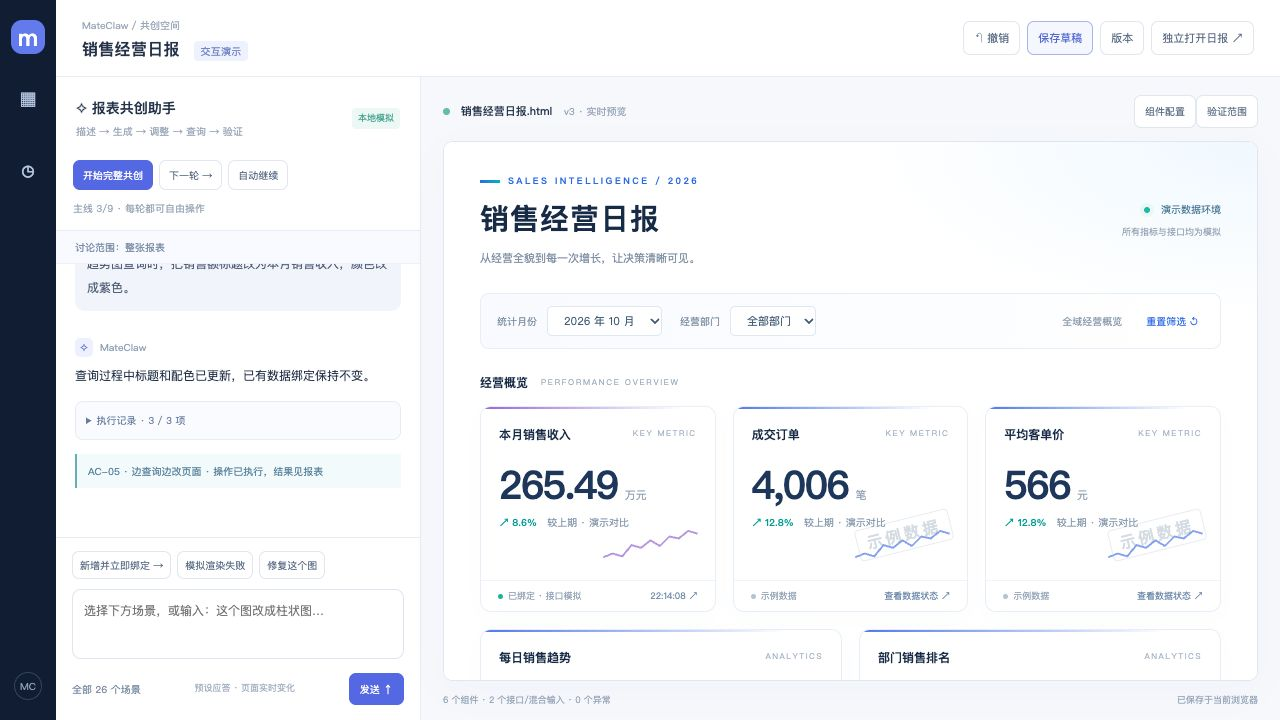
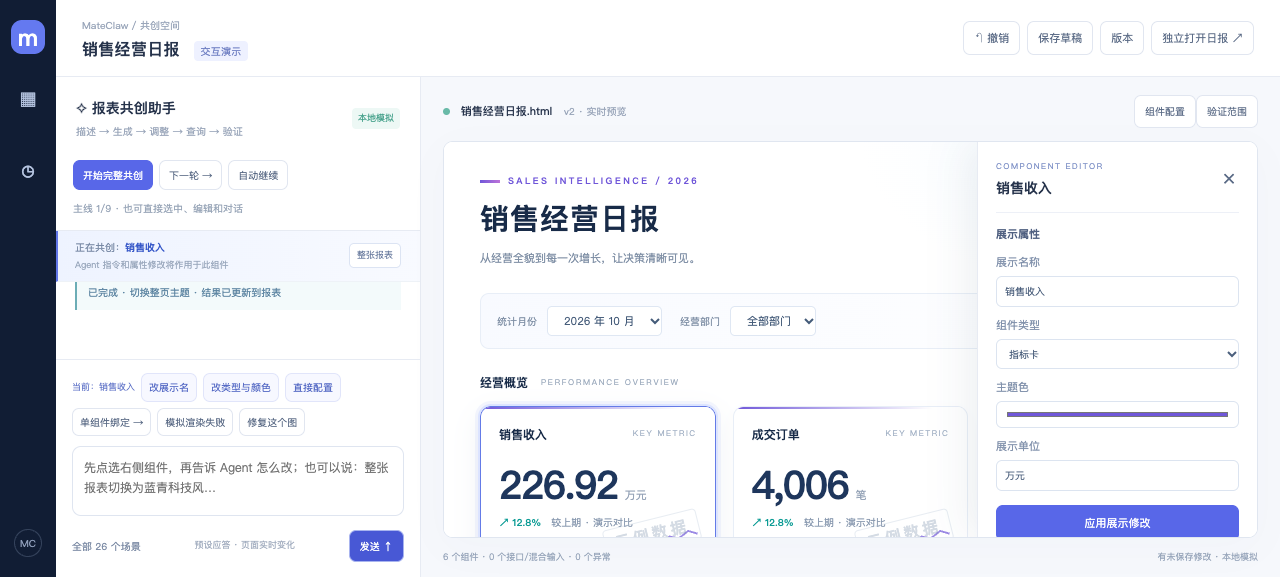
完善报表组件共创交互演示

diff --git a/docs/AI 共创工作台/designs/AI报表共创工作台/report.js b/docs/AI 共创工作台/designs/AI报表共创工作台/report.js
@@ -12,16 +12,16 @@ function params(c){return c.params||{month:state.month,dept:state.dept};}
 function rows(c,p=params(c)){const month=p.month||'2026-10',dept=p.dept||'全部部门',m=Number(month.slice(-2))||10;let result=[];for(let day=1;day<=22;day++)for(let d=0;d<4;d++){const sales=c.zero?0:Math.round((9900+day*173+((day*7+d*19)%23)*620+d*2700)*(c.mode==='sample'?1:1.17)*(.8+m/30));const orders=c.zero?0:23+(day*11+d*7)%46;result.push({date:`${month}-${String(day).padStart(2,'0')}`,dept:departments[d],sales,orders,average:orders?Math.round(sales/orders):0});}return result.filter(r=>dept==='全部部门'||r.dept===dept);}
 function sum(data,metric='sales'){if(metric==='average'){const n=sum(data,'orders');return n?sum(data,'sales')/n:0;}return data.reduce((n,r)=>n+Number(r[metric]||0),0);}
 function format(v,metric='sales'){return metric==='sales'?(v/10000).toFixed(2):Math.round(v).toLocaleString('zh-CN');}
-function unit(c){return c.metric==='orders'?'笔':c.metric==='average'?'元':'万元';}
+function unit(c){return c.unit||(c.metric==='orders'?'笔':c.metric==='average'?'元':'万元');}
 function grouped(data,key,c){const result=new Map();data.forEach(r=>{const k=r[key];if(!result.has(k))result.set(k,[]);result.get(k).push(r);});return [...result].map(([label,list])=>({label,value:sum(list,c.metric)}));}
-function line(c,data){const values=grouped(data,'date',c),max=Math.max(...values.map(v=>v.value),1)*1.18;const points=values.map((v,i)=>[40+i*420/Math.max(values.length-1,1),177-v.value/max*140]);const color=safeColor(c.color||state.accent);return `<svg class="plot" viewBox="0 0 480 215" role="img" aria-label="${escape(c.title)}趋势图"><defs><linearGradient id="area-${escape(c.id)}" x1="0" y1="0" x2="0" y2="1"><stop stop-color="${color}" stop-opacity=".18"/><stop offset="1" stop-color="${color}" stop-opacity="0"/></linearGradient></defs>${[0,1,2,3].map(i=>`<line x1="40" x2="460" y1="${37+i*46.66}" y2="${37+i*46.66}" stroke="#eaf0f8" stroke-dasharray="3 4"/><text x="32" y="${40+i*46.66}" text-anchor="end">${format(max*(3-i)/3,c.metric)}</text>`).join('')}<polygon points="40,177 ${points.map(p=>p.join(',')).join(' ')} 460,177" fill="url(#area-${escape(c.id)})"/><polyline class="line" points="${points.map(p=>p.join(',')).join(' ')}" stroke="${color}" stroke-width="2.5" stroke-linejoin="round" fill="none"/>${points.map((p,i)=>`<circle class="point" cx="${p[0]}" cy="${p[1]}" r="2.8" fill="white" stroke="${color}" stroke-width="1.5"><title>${escape(values[i].label)}：${format(values[i].value,c.metric)} ${unit(c)}</title></circle>${i%5===0||i===points.length-1?`<text x="${p[0]}" y="201" text-anchor="middle">${escape(values[i].label.slice(5))}</text>`:''}`).join('')}</svg>`;}
+function line(c,data){const values=grouped(data,c.dimension==='dept'?'dept':'date',c),max=Math.max(...values.map(v=>v.value),1)*1.18;const points=values.map((v,i)=>[40+i*420/Math.max(values.length-1,1),177-v.value/max*140]);const color=safeColor(c.color||state.accent);return `<svg class="plot" viewBox="0 0 480 215" role="img" aria-label="${escape(c.title)}趋势图"><defs><linearGradient id="area-${escape(c.id)}" x1="0" y1="0" x2="0" y2="1"><stop stop-color="${color}" stop-opacity=".18"/><stop offset="1" stop-color="${color}" stop-opacity="0"/></linearGradient></defs>${[0,1,2,3].map(i=>`<line x1="40" x2="460" y1="${37+i*46.66}" y2="${37+i*46.66}" stroke="#eaf0f8" stroke-dasharray="3 4"/><text x="32" y="${40+i*46.66}" text-anchor="end">${format(max*(3-i)/3,c.metric)}</text>`).join('')}<polygon points="40,177 ${points.map(p=>p.join(',')).join(' ')} 460,177" fill="url(#area-${escape(c.id)})"/><polyline class="line" points="${points.map(p=>p.join(',')).join(' ')}" stroke="${color}" stroke-width="2.5" stroke-linejoin="round" fill="none"/>${points.map((p,i)=>`<circle class="point" cx="${p[0]}" cy="${p[1]}" r="2.8" fill="white" stroke="${color}" stroke-width="1.5"><title>${escape(values[i].label)}：${format(values[i].value,c.metric)} ${unit(c)}</title></circle>${i%5===0||i===points.length-1?`<text x="${p[0]}" y="201" text-anchor="middle">${escape(values[i].label.slice(5))}</text>`:''}`).join('')}</svg>`;}
 function table(c,data){const t=tables.get(c.id)||{page:1,search:'',sort:'date',direction:1};tables.set(c.id,t);let list=data.filter(r=>Object.values(r).join(' ').includes(t.search));list.sort((a,b)=>typeof a[t.sort]==='number'?(a[t.sort]-b[t.sort])*t.direction:String(a[t.sort]).localeCompare(String(b[t.sort]))*t.direction);const pages=Math.max(1,Math.ceil(list.length/5));t.page=Math.min(pages,t.page);return `<div class="table-tools"><input aria-label="搜索经营明细" data-search="${escape(c.id)}" placeholder="搜索日期、部门或数值…" value="${escape(t.search)}"><span class="hint">${list.length} 条记录 · 模拟明细</span></div><div class="table-wrap"><table><thead><tr>${[['date','日期'],['dept','经营部门'],['sales','销售收入（元）'],['orders','订单数'],['average','客单价（元）']].map(([key,title])=>`<th><button data-sort="${key}" data-id="${escape(c.id)}">${title} ${t.sort===key?(t.direction===1?'↑':'↓'):'↕'}</button></th>`).join('')}</tr></thead><tbody>${list.slice((t.page-1)*5,t.page*5).map(r=>`<tr><td>${r.date}</td><td>${r.dept}</td><td>¥ ${r.sales.toLocaleString()}</td><td>${r.orders}</td><td>¥ ${r.average.toLocaleString()}</td></tr>`).join('')||'<tr><td colspan="5">没有匹配的明细</td></tr>'}</tbody></table></div><div class="pagination"><span>当前筛选结果 ${list.length} 条</span><div class="pager"><button data-page="-1" data-id="${escape(c.id)}" ${t.page===1?'disabled':''}>上一页</button><span>${t.page} / ${pages}</span><button data-page="1" data-id="${escape(c.id)}" ${t.page===pages?'disabled':''}>下一页</button></div></div>`;}
 function chart(c,data){if(c.type==='text')return `<p style="white-space:pre-wrap;color:#7286a1">${escape(c.text||'经营表现持续改善，请结合真实数据核对经营口径。')}</p>`;if(c.type==='kpi')return `<div class="value">${format(sum(data,c.metric),c.metric)}<small>${unit(c)}</small></div><div class="delta"><b>↗ ${c.zero?'0.0':c.mode==='sample'?'12.8':'8.6'}%</b> 较上期 · 演示对比</div>${c.mode==='mixed'?`<div class="hint">示例目标：300 万元 · 达成 ${(sum(data,c.metric)/3000000*100).toFixed(1)}%</div>`:''}<svg class="sparkline" viewBox="0 0 100 35" aria-hidden="true"><polyline points="0,30 10,26 20,29 30,17 40,20 50,12 60,18 70,8 80,10 90,2 100,5" stroke="${safeColor(c.color||state.accent)}" stroke-width="2" fill="none"/></svg>`;if(c.type==='table')return table(c,data);if(c.type==='bar'||c.type==='pie'){const values=grouped(data,'dept',c).sort((a,b)=>b.value-a.value),max=Math.max(...values.map(v=>v.value),1);if(c.type==='pie'){const total=values.reduce((n,v)=>n+v.value,0)||1;let offset=0;return `<div style="display:flex;align-items:center;justify-content:center;gap:24px;padding:12px 0"><svg width="170" height="170" viewBox="0 0 170 170" role="img" aria-label="部门销售占比">${values.map((v,i)=>{const share=v.value/total*100,part=`<circle cx="85" cy="85" r="59" pathLength="100" fill="none" stroke="${['#3269e8','#16b9c7','#96b3f8','#b2e7e9'][i]}" stroke-width="23" stroke-dasharray="${Math.max(0,share-.8)} ${100-Math.max(0,share-.8)}" stroke-dashoffset="${-offset}" transform="rotate(-90 85 85)"><title>${v.label} ${(share).toFixed(1)}%</title></circle>`;offset+=share;return part;}).join('')}<text x="85" y="90" text-anchor="middle" fill="#7c90ad" font-size="12">销售占比</text></svg><div>${values.map(v=>`<p class="hint">${v.label} <b>${(v.value/total*100).toFixed(1)}%</b></p>`).join('')}</div></div>`;}return `${values.map((v,i)=>`<div class="rank"><span>0${i+1}</span><button data-dept="${v.label}">${v.label}</button><div class="track"><div class="bar" style="width:${v.value/max*100}%"></div></div><b>${format(v.value,c.metric)}</b></div>`).join('')}<div class="hint">单位：${unit(c)} · 点击部门联动筛选</div>`;}return line(c,data);}
 function actions(c){return `<div class="row"><button class="action" data-action="retry" data-id="${escape(c.id)}">重试</button><button class="action" data-action="repair" data-id="${escape(c.id)}">✧ AI 修复</button><button class="action" data-action="details" data-id="${escape(c.id)}">查看详情</button></div>`;}
 const seenCards=new Set();
 function card(c,index){const fresh=!seenCards.has(c.id);seenCards.add(c.id);let content,ok=false;const errorKey=typeof c.error==='object'?c.error?.type||c.error?.code:c.error;try{if(c.status==='error'||errorKey){const e=errors[errorKey]||['组件暂时不可用',typeof c.error==='object'?c.error?.message:'请查看错误详情并修复。'];content=`<div class="panel"><div class="symbol">!</div><h3>${e[0]}</h3><p>${escape(e[1])}</p>${actions(c)}</div>${c.oldResult?`<div class="history-label">上次成功结果，当前查询失败 · ${escape((c.oldParams||params(c)).month)} / ${escape((c.oldParams||params(c)).dept)}${c.oldStamp?` · ${escape(c.oldStamp)}`:''}</div><div class="stale-chart">${chart(c,Array.isArray(c.oldResult)?c.oldResult:rows(c,c.oldParams||params(c)))}</div>`:''}`;}else if(c.status==='loading'){content='<div class="panel"><div class="spinner"></div><h3>正在查询数据…</h3><p>当前组件正在更新，其他组件可继续使用。</p></div>';}else if(c.status==='empty'){content='<div class="panel"><div class="empty-symbol">⌕</div><h3>当前条件下暂无数据</h3><p>查询已成功，请尝试调整日期或部门范围。</p></div>';ok=true;}else if(c.status==='stale'){const p=c.lastSuccessParams||c.oldParams||c.params||params(c);content=`<div class="history-label">历史结果 · ${escape(p.month)} / ${escape(p.dept)}${c.stamp?` · ${escape(c.stamp)}`:''} · 待重新查询</div><div class="stale-chart">${chart(c,Array.isArray(c.oldResult)?c.oldResult:rows(c,p))}</div><button class="action" data-action="retry" data-id="${escape(c.id)}">执行查询</button>`;}else{content=chart(c,Array.isArray(c.result)?c.result:rows(c));ok=true;}}catch{content=`<div class="panel"><div class="symbol">!</div><h3>图表渲染失败</h3><p>组件配置无法处理当前数据，其他组件不受影响。</p>${actions(c)}</div>`;}
 const watermark=c.mode==='sample'?'示例数据':c.mode==='mixed'?'示例数据 · 部分输入':'';const statusText=c.status==='loading'?'查询中':c.status==='error'||errorKey?'组件异常':c.status==='stale'?'历史结果':c.mode==='sample'?'示例数据':c.mode==='mixed'?'混合输入 · 接口模拟':'已绑定 · 接口模拟';return {ok,html:`<article class="card ${state.selected===c.id?'selected':''} ${fresh?'arriving':''} ${escape(c.type)} ${escape(c.mode)} ${c.wide?'wide':''}" style="--card-accent:${safeColor(c.color||state.accent)};animation-delay:${index*45}ms"><div class="card-head"><button class="card-title" data-action="select" data-id="${escape(c.id)}" aria-label="编辑${escape(c.title)}">${escape(c.title)}</button><span class="kind">${c.type==='kpi'?'KEY METRIC':c.type==='table'?'DETAILS':'ANALYTICS'}</span></div><div class="card-body">${content}${watermark&&c.status!=='loading'&&c.status!=='error'&&!errorKey?`<div class="watermark ${c.mode==='mixed'?'mixed':''}">${watermark}</div>`:''}</div><div class="card-foot"><span><i class="status-dot"></i>${statusText}</span><button data-action="details" data-id="${escape(c.id)}">${c.stamp?escape(c.stamp):'查看数据状态'} ↗</button></div></article>`};}
-function render(){document.documentElement.style.setProperty('--accent',safeColor(state.accent));$('title').textContent=state.title||'销售经营日报';$('month').value=state.month||'2026-10';$('dept').value=state.dept||'全部部门';const filterError=state.filterStatus==='error';$('month').disabled=filterError;$('dept').disabled=filterError;$('reset').disabled=filterError;$('filter-retry').hidden=!filterError;$('filter-status').textContent=filterError?'筛选候选加载失败':state.filterStatus==='sample'?'示例数据 · 筛选候选':'全域经营概览';const cards=(state.components||[]).map(card);$('components').innerHTML=cards.map(c=>c.html).join('')||'<div class="blank"><strong>等待你的第一个经营问题</strong><span>在左侧描述需求，Agent 将在这里生成可交互报表。</span></div>';if(embedded)parent.postMessage({type:'report-rendered',ids:cards.flatMap((c,i)=>c.ok?[state.components[i].id]:[])},location.origin==='null'?'*':location.origin);}
+function render(){const theme=state.theme||{name:'蓝青科技',accent:state.accent||'#3269e8',secondary:'#13b4be'};document.documentElement.style.setProperty('--accent',safeColor(theme.accent));document.documentElement.style.setProperty('--cyan',safeColor(theme.secondary));$('theme-name').textContent=theme.name||'蓝青科技';$('title').textContent=state.title||'销售经营日报';$('month').value=state.month||'2026-10';$('dept').value=state.dept||'全部部门';const filterError=state.filterStatus==='error';$('month').disabled=filterError;$('dept').disabled=filterError;$('reset').disabled=filterError;$('filter-retry').hidden=!filterError;$('filter-status').textContent=filterError?'筛选候选加载失败':state.filterStatus==='sample'?'示例数据 · 筛选候选':'全域经营概览';const cards=(state.components||[]).map(card);$('components').innerHTML=cards.map(c=>c.html).join('')||'<div class="blank"><strong>等待你的第一个经营问题</strong><span>在左侧描述需求，Agent 将在这里生成可交互报表。</span></div>';if(embedded)parent.postMessage({type:'report-rendered',ids:cards.flatMap((c,i)=>c.ok?[state.components[i].id]:[])},location.origin==='null'?'*':location.origin);}
 function localAction(action,{id,month,dept}={}){const c=state.components.find(c=>c.id===id);if(action==='filter-retry'){state.filterStatus='ready';render();}else if(action==='filter'){state.month=month||state.month;state.dept=dept||state.dept;for(const item of state.components)if(!state.filterScope||state.filterScope.includes(item.id))item.params={month:state.month,dept:state.dept};tables.clear();render();}else if(action==='retry'||action==='repair'){if(!c)return;if(c.error==='denied'&&action==='repair'){showDetails(c);return;}const previousError=c.error;c.status='loading';c.error=null;render();setTimeout(()=>{c.error=action==='retry'?previousError:null;c.status=c.error?'error':'ready';c.stamp=new Date().toLocaleTimeString('zh-CN');render();},600);}else if(action==='select'||action==='details'){if(c)showDetails(c);}}
 function showDetails(c){$('detail-content').innerHTML=`<h3>${escape(c.title)}</h3><p>模拟数据状态与查询上下文</p><pre>${escape(JSON.stringify({mode:c.mode,status:c.status,error:c.error||null,queryId:c.queryId||'未绑定',version:c.version||1,params:params(c)},null,2))}</pre>`;$('details').showModal();}
 $('close-details').onclick=()=>$('details').close();$('filter-retry').onclick=()=>emit('filter-retry');$('month').onchange=()=>{tables.clear();emit('filter',{month:$('month').value,dept:$('dept').value});};$('dept').onchange=()=>{tables.clear();emit('filter',{month:$('month').value,dept:$('dept').value});};$('reset').onclick=()=>{tables.clear();emit('filter',{month:'2026-10',dept:'全部部门'});};

diff --git a/docs/AI 共创工作台/designs/AI报表共创工作台/workbench.css b/docs/AI 共创工作台/designs/AI报表共创工作台/workbench.css
@@ -1,1 +1,23 @@
 :root{font:13px/1.65 Inter,"PingFang SC",system-ui,sans-serif;color:#26334b;background:#f6f8fc;--blue:#5867e8;--line:#e7ebf3}*{box-sizing:border-box}body{margin:0;display:flex;height:100dvh;overflow:hidden}button,input,select,textarea{font:inherit}button,a{cursor:pointer}button,a{border:1px solid #e1e6f0;border-radius:7px;padding:7px 10px;background:white;color:#5b6b86;text-decoration:none;transition:.2s}button:hover,a:hover{border-color:#a8b4ef;background:#f5f7ff;color:#5365d4}button:disabled{opacity:.45;cursor:wait}.primary{background:var(--blue);color:white;border-color:var(--blue)}.primary:hover{background:#4858d5;color:white}button:focus-visible,a:focus-visible{outline:3px solid #b6c4ff;outline-offset:2px}h1,h2,h3,p{margin:0}small{color:#9aa6ba;font-size:10px}.rail{width:56px;background:#111d34;color:#8e9db9;display:flex;flex-direction:column;align-items:center;padding:20px 8px;gap:23px;flex-shrink:0}.logo{width:34px;height:34px;border-radius:11px;background:#6479f0;color:white;text-align:center;font-size:23px}.rail button{background:none;border:0;color:#b4c3df;font-size:20px}.rail span{margin-top:auto;border:1px solid #34425b;border-radius:50%;padding:5px;font-size:10px}main{min-width:0;flex:1;display:flex;flex-direction:column}header{height:77px;background:white;border-bottom:1px solid var(--line);padding:0 26px;display:flex;align-items:center;justify-content:space-between;gap:12px}h1{font-size:16px;font-weight:600;letter-spacing:.3px}em{font-style:normal;font-size:10px;font-weight:400;background:#eef1ff;color:#7181c4;padding:3px 6px;border-radius:4px;margin-left:9px}.actions{display:flex;gap:7px;align-items:center;font-size:11px}.workspace{display:flex;flex:1;min-height:0}.conversation{width:365px;flex-shrink:0;background:#fff;display:flex;flex-direction:column;border-right:1px solid var(--line)}.chat-heading{padding:20px;display:flex;justify-content:space-between;align-items:center}.chat-heading strong{display:block;font-size:14px}.chat-heading small{display:block;margin-top:3px}.online{font-size:9px;color:#47a28c;background:#edf8f5;border-radius:4px;padding:3px 6px}.journey{padding:0 17px 13px;display:flex;gap:6px;flex-wrap:wrap;border-bottom:1px solid var(--line)}.journey button{font-size:10px;padding:6px 9px}.journey span{width:100%;color:#9aa7b9;font-size:10px;padding-top:4px}#context{font-size:10px;color:#7889a5;background:#f8faff;padding:8px 19px;border-bottom:1px solid #eef2f7}#messages{flex:1;min-height:0;overflow:auto;padding:22px 19px;scroll-behavior:smooth}.message{margin-bottom:27px;animation:appear .25s ease}.message .who{font-size:10px;color:#91a0b8;margin-bottom:7px;display:flex;align-items:center;gap:7px}.who i{font-style:normal;background:#edf0ff;color:#6675d9;padding:1px 5px;border-radius:5px}.message.user .who{justify-content:flex-end}.message.user .text{background:#f1f4fa;padding:12px;border-radius:10px 2px 10px 10px;color:#536079}.text{font-size:12px;white-space:pre-wrap;line-height:1.95}.execution{margin:14px 0;border:1px solid #e7ecf4;border-radius:8px;background:#fafbfe;font-size:10px}.execution summary{padding:10px;cursor:pointer;color:#677ca2}.execution ol{margin:0;padding:0 12px 10px;list-style:none}.execution li{padding:4px 0;color:#9da9ba}.execution li.done{color:#399f88}.execution li.running{color:#5867e8}.result{font-size:10px;color:#5d85a2;padding:9px 11px;border-left:2px solid #6cadb6;background:#f3fafb;margin-top:12px}.thinking{font-size:10px;color:#8d9ab0;margin-top:10px}.thinking:before{content:'';display:inline-block;width:6px;height:6px;background:#8998ef;border-radius:50%;margin-right:7px;animation:pulse 1s infinite}.compose{border-top:1px solid var(--line);padding:13px 16px 15px}.compose textarea{border:1px solid #dfe5f0;outline-color:#a7b4f2;border-radius:9px;padding:11px;width:100%;height:70px;resize:none;font-size:12px}.compose>div:last-child{display:flex;align-items:center;justify-content:space-between;margin-top:7px;gap:8px}.compose span{font-size:9px;color:#a2adbf}.compose button{font-size:10px}.compose #library{padding:0;border:0;background:none;color:#7c8ba5}#suggestions{display:flex;gap:6px;overflow:auto;margin-bottom:10px}#suggestions button{font-size:10px;white-space:nowrap;padding:5px 7px}.artifact{flex:1;min-width:0;padding:18px 22px 0;display:flex;flex-direction:column}.artifact-bar{display:flex;justify-content:space-between;align-items:center;gap:8px;font-size:11px;margin-bottom:13px}.artifact-bar i{display:inline-block;width:7px;height:7px;background:#69baa8;border-radius:50%;margin-right:7px}.artifact-bar b{font-weight:500}.artifact-bar small{margin-left:8px}.artifact-bar button{font-size:10px}.artifact-body{flex:1;min-height:0;position:relative;border:1px solid #e0e6f0;border-radius:10px;overflow:hidden;background:white;box-shadow:0 10px 40px #162d4905}iframe{width:100%;height:100%;border:0;background:white}#empty{position:absolute;inset:0;background:radial-gradient(ellipse at 50% 40%,#f2f8ff,white 70%);display:flex;flex-direction:column;justify-content:center;align-items:center;text-align:center;gap:18px}#empty[hidden]{display:none}#empty>span{width:70px;height:70px;line-height:70px;font-size:35px;color:#8797ec;border:1px solid #e1e8fc;border-radius:22px;background:#fff;box-shadow:0 8px 28px #7c98dd18}#empty h2{font-size:22px;color:#42536e;font-weight:500}#empty p{color:#95a3b8;font-size:12px}footer{display:flex;justify-content:space-between;padding:12px 0;font-size:9px;color:#98a6bb;gap:8px}#inspector{position:absolute;right:0;top:0;bottom:0;width:280px;background:white;border-left:1px solid var(--line);box-shadow:-12px 0 40px #1c3b5812;padding:18px;overflow:auto}#inspector h3{font-size:14px;margin-bottom:18px}label{display:block;font-size:11px;color:#8292ac;margin:12px 0}label input,label select{display:block;width:100%;margin-top:5px;border:1px solid #dce4f0;border-radius:6px;padding:8px;background:white;color:#4c607d}#inspector .buttons{display:flex;flex-wrap:wrap;gap:7px;margin-top:13px}#inspector button{font-size:11px}dialog{border:1px solid #dfe6f2;border-radius:13px;padding:0;width:min(750px,94vw);color:#33455f;box-shadow:0 20px 80px #14294426}dialog::backdrop{background:#14264038;backdrop-filter:blur(3px)}.dialog-head{padding:17px 23px;display:flex;justify-content:space-between;align-items:center;border-bottom:1px solid var(--line)}.dialog-head h2{font-size:16px}.dialog-head button{border:0;font-size:20px}#dialogBody{padding:22px;max-height:75vh;overflow:auto}.scene-grid{display:grid;grid-template-columns:1fr 1fr;gap:9px}.scene-grid button{text-align:left;padding:12px}.scene-grid b{display:block;font-weight:500;font-size:12px}.scene-grid small{display:block;margin-top:5px;font-size:10px}.scene-grid .visited{border-color:#a6d7c8;background:#f5fcfa}pre{font-size:11px;white-space:pre-wrap;word-break:break-word;background:#f5f7fb;padding:14px;border-radius:8px}.version{display:flex;justify-content:space-between;border-bottom:1px solid var(--line);padding:15px 0}.notice{padding:12px;background:#f6f8ff;border-radius:7px;font-size:12px;line-height:1.8;margin-bottom:14px}.choice{margin:5px}.check{padding:10px;border-bottom:1px solid var(--line);font-size:12px}.pass{color:#2c9b7e}.fail{color:#d07163}#toast{position:fixed;bottom:26px;left:50%;transform:translateX(-50%);background:#243854;color:white;padding:10px 18px;border-radius:8px;font-size:12px;z-index:20}@keyframes appear{from{opacity:0;transform:translateY(5px)}}@keyframes pulse{50%{opacity:.2}}@media(max-width:1100px){.conversation{width:310px}.artifact{padding:14px 12px 0}header{padding:0 16px}.actions a{font-size:10px}.artifact-bar{flex-wrap:wrap}}@media(max-width:760px){.rail{display:none}header{height:66px}.actions{gap:4px}.actions #undo,.actions #versions{display:none}.actions a{max-width:90px;text-align:center;padding:4px}.workspace{flex-direction:column;overflow:auto}.conversation{width:100%;height:46dvh;min-height:340px;border-right:0;border-bottom:1px solid var(--line)}.chat-heading{padding:10px 16px}.chat-heading small{display:none}.journey{padding-bottom:7px}.journey span{width:auto}.compose{padding:8px 14px}.compose textarea{height:44px}#messages{padding:12px 16px}#context{padding:4px 16px}.artifact{flex:none;height:75dvh;padding:13px 12px 0}.scene-grid{grid-template-columns:1fr}h1{font-size:14px}header em{display:none}.artifact footer{font-size:8px}}@media(prefers-reduced-motion:reduce){*{animation:none!important;scroll-behavior:auto!important}}
+
+#context{display:flex;align-items:center;justify-content:space-between;gap:10px;min-height:39px}
+#context span{font-size:10px;color:#7889a5}
+#context b{color:#3859c9;font-weight:650}
+#context small{display:block;margin-top:3px;font-size:9px;color:#9aa8bd}
+#context.focused{background:linear-gradient(90deg,#eef3ff,#f8faff);border-left:2px solid #6176e8;padding-left:17px}
+#context button{border:1px solid #dce4f3;background:#fff;border-radius:5px;padding:4px 7px;font-size:9px;color:#6b7da0;white-space:nowrap}
+#suggestions{flex-wrap:wrap;align-items:center}
+#suggestions button[data-fill-prompt],#suggestions button[data-open-inspector],#suggestions button[data-guide-select]{background:#f7f8ff;border-color:#e1e5fa;color:#5368c4}
+#suggestions .guide-context{font-size:9px;color:#6477c9;white-space:nowrap}
+#inspector{z-index:5}
+#inspector .inspector-kicker{font-size:8px;letter-spacing:1.5px;color:#8294c8;margin-bottom:4px}
+#inspector h3{padding-right:25px;margin-bottom:12px}
+#inspector .inspector-close{position:absolute;top:12px;right:12px;border:0;background:transparent;font-size:20px}
+#inspector .inspector-group{border-top:1px solid #edf0f7;padding-top:10px;margin-top:12px}
+#inspector .inspector-group>b{font-size:11px;color:#4f5f80}
+#inspector .inspector-group>b small{float:right;font-weight:400;color:#a2adbf}
+#inspector label{margin:9px 0}
+#inspector label input,#inspector label select{padding:6px 8px;font-size:10px}
+#inspector [data-apply-display],#inspector [data-apply-query]{width:100%;padding:8px;margin-top:5px}
+#inspector .inspector-note{font-size:9px;color:#8b99ae;line-height:1.7;margin-top:12px}
+@media(max-width:760px){#inspector{position:fixed;top:auto;left:10px;right:10px;bottom:10px;width:auto;max-height:72dvh;border:1px solid var(--line);border-radius:12px}}

diff --git a/docs/AI 共创工作台/designs/AI报表共创工作台/index.html b/docs/AI 共创工作台/designs/AI报表共创工作台/index.html
@@ -1,6 +1,6 @@
 <!doctype html><html lang="zh-CN"><head><meta charset="utf-8"><meta name="viewport" content="width=device-width,initial-scale=1"><title>MateClaw · AI 报表共创工作台</title><link rel="stylesheet" href="workbench.css"></head><body>
 <nav class="rail"><b class="logo">m</b><button id="scenesToggle" title="场景目录">▦</button><button id="history" title="版本记录">◷</button><span>MC</span></nav>
 <main><header><div><small>MateClaw / 共创空间</small><h1>销售经营日报 <em>交互演示</em></h1></div><div class="actions"><button id="undo">↶ 撤销</button><button id="save">保存草稿</button><button id="versions">版本</button><a href="report.html" target="_blank">独立打开日报 ↗</a></div></header>
-<div class="workspace"><aside class="conversation"><div class="chat-heading"><div><strong>✧ 报表共创助手</strong><small>描述 → 生成 → 调整 → 查询 → 验证</small></div><span class="online">本地模拟</span></div><div class="journey"><button id="start" class="primary">开始完整共创</button><button id="next">下一轮 →</button><button id="auto">自动继续</button><span id="round">等待开始</span></div><div id="context">讨论范围：整张报表</div><div id="messages" aria-live="polite"></div><div class="compose"><div id="suggestions"></div><textarea id="prompt" aria-label="描述报表需求" placeholder="选择下方场景，或输入：这个图改成柱状图…"></textarea><div><button id="library">全部 26 个场景</button><span>预设应答 · 页面实时变化</span><button id="send" class="primary">发送 ↑</button></div></div></aside>
-<section class="artifact"><div class="artifact-bar"><span><i></i> <b>销售经营日报.html</b> <small id="artifactVersion">尚未生成</small></span><div><button id="inspect">组件配置</button><button id="validate">验证范围</button></div></div><div class="artifact-body"><iframe id="report" title="销售经营日报实时预览" src="report.html"></iframe><div id="empty"><span>✧</span><h2>从一句需求开始</h2><p>告诉 Agent 你想看到什么，<br>可交互报表将在这里逐步生成。</p><button id="emptyStart" class="primary">生成销售经营日报 →</button><small>无需建设蓝图 · 页面与数据同步共创</small></div><aside id="inspector" hidden></aside></div><footer><span id="status">准备就绪</span><span id="saved">未保存 · 全部数据与接口均为模拟</span></footer></section></div></main>
+<div class="workspace"><aside class="conversation"><div class="chat-heading"><div><strong>✧ 报表共创助手</strong><small>描述 → 生成 → 调整 → 查询 → 验证</small></div><span class="online">本地模拟</span></div><div class="journey"><button id="start" class="primary">开始完整共创</button><button id="next">下一轮 →</button><button id="auto">自动继续</button><span id="round">等待开始</span></div><div id="context"><span>讨论范围：整张报表</span></div><div id="messages" aria-live="polite"></div><div class="compose"><div id="suggestions"></div><textarea id="prompt" aria-label="描述报表需求" placeholder="先点选右侧组件，再告诉 Agent 怎么改；也可以说：整张报表切换为蓝青科技风…"></textarea><div><button id="library">全部 26 个场景</button><span>预设应答 · 页面实时变化</span><button id="send" class="primary">发送 ↑</button></div></div></aside>
+<section class="artifact"><div class="artifact-bar"><span><i></i> <b>销售经营日报.html</b> <small id="artifactVersion">尚未生成</small></span><div><button id="inspect">组件配置</button><button id="validate">验证范围</button></div></div><div class="artifact-body"><iframe id="report" title="销售经营日报实时预览" src="report.html"></iframe><div id="empty"><span>✧</span><h2>从一句需求开始</h2><p>告诉 Agent 你想看到什么，<br>可交互报表将在这里逐步生成。</p><button id="emptyStart" class="primary">生成销售经营日报 →</button><small>生成后可点选组件对话、直接改配置、让 Agent 调整整页主题</small></div><aside id="inspector" hidden></aside></div><footer><span id="status">准备就绪</span><span id="saved">未保存 · 全部数据与接口均为模拟</span></footer></section></div></main>
 <dialog id="dialog"><div class="dialog-head"><h2 id="dialogTitle"></h2><button id="close">×</button></div><div id="dialogBody"></div></dialog><div id="toast" role="status" hidden></div><script src="workbench.js"></script></body></html>

diff --git a/docs/AI 共创工作台/designs/AI报表共创工作台/report.html b/docs/AI 共创工作台/designs/AI报表共创工作台/report.html
@@ -1,3 +1,3 @@
 <!doctype html>
 <html lang="zh-CN"><head><meta charset="utf-8"><meta name="viewport" content="width=device-width,initial-scale=1"><title>销售经营日报 · MateClaw</title><link rel="stylesheet" href="report.css"></head>
-<body><main class="report"><header class="report-header"><div><div class="eyebrow"><span></span> SALES INTELLIGENCE / 2026</div><h1 id="title">销售经营日报</h1><p>从经营全貌到每一次增长，让决策清晰可见。</p></div><div class="live"><span></span> 演示数据环境<small>所有指标与接口均为模拟</small></div></header><section class="filter-bar" aria-label="报表筛选"><label>统计月份<select id="month" aria-label="统计月份"><option value="2026-10">2026 年 10 月</option><option value="2026-09">2026 年 09 月</option><option value="2026-08">2026 年 08 月</option></select></label><label>经营部门<select id="dept" aria-label="经营部门"><option>全部部门</option><option>华东区</option><option>华南区</option><option>华北区</option><option>西部区</option></select></label><span id="filter-status">全域经营概览</span><button id="filter-retry" hidden>重试加载筛选候选</button><button id="reset">重置筛选 ↺</button></section><div class="section-caption"><span>经营概览</span><span>PERFORMANCE OVERVIEW</span></div><section id="components" class="components" aria-label="报表组件"></section><footer><span>◈ MATECLAW INTELLIGENCE</span><span>模拟环境 · 支持组件级共创与数据绑定</span></footer></main><dialog id="details"><div id="detail-content"></div><button id="close-details">关闭</button></dialog><script src="report.js"></script></body></html>
+ <body><main class="report"><header class="report-header"><div><div class="eyebrow"><span></span> SALES INTELLIGENCE / 2026</div><h1 id="title">销售经营日报</h1><p>从经营全貌到每一次增长，让决策清晰可见。</p></div><div class="live"><span></span> 演示数据环境<small>当前主题 · <b id="theme-name">蓝青科技</b></small><small>所有指标与接口均为模拟</small></div></header><section class="filter-bar" aria-label="报表筛选"><label>统计月份<select id="month" aria-label="统计月份"><option value="2026-10">2026 年 10 月</option><option value="2026-09">2026 年 09 月</option><option value="2026-08">2026 年 08 月</option></select></label><label>经营部门<select id="dept" aria-label="经营部门"><option>全部部门</option><option>华东区</option><option>华南区</option><option>华北区</option><option>西部区</option></select></label><span id="filter-status">全域经营概览</span><button id="filter-retry" hidden>重试加载筛选候选</button><button id="reset">重置筛选 ↺</button></section><div class="section-caption"><span>经营概览</span><span>PERFORMANCE OVERVIEW</span></div><section id="components" class="components" aria-label="报表组件"></section><footer><span>◈ MATECLAW INTELLIGENCE</span><span>模拟环境 · 支持组件级共创与数据绑定</span></footer></main><dialog id="details"><div id="detail-content"></div><button id="close-details">关闭</button></dialog><script src="report.js"></script></body></html>

diff --git a/docs/AI 共创工作台/designs/AI报表共创工作台/report.css b/docs/AI 共创工作台/designs/AI报表共创工作台/report.css
@@ -3,3 +3,5 @@
 .card.arriving{animation:arrive .45s ease both}
 
 .card.selected{border-color:#748eeb;box-shadow:0 0 0 2px #e9eeff}
+
+.card.selected{border-color:#647be7;outline:2px solid #dce4ff;box-shadow:0 0 0 5px #647bea12,0 9px 28px #24476b12}

diff --git a/docs/AI 共创工作台/designs/AI报表共创工作台/验证记录.md b/docs/AI 共创工作台/designs/AI报表共创工作台/验证记录.md
@@ -50,3 +50,19 @@
 ## 证据边界
 
 所有入口已执行；所有选项组合、并发顺序和多浏览器兼容未穷举。共享删除及不同业务口径的每个选择分支不以入口执行代替完整验收。真实 AI、权限、查询和生产持久化不在本次验证范围。
+
+## 组件共创与直接编辑补充验证（2026-10-23）
+
+在同一工作台原型的独立浏览器会话中验证了用户指定的交互：
+
+| 操作 | 浏览器实际观察 | 结果 |
+| --- | --- | --- |
+| 生成报表并点击“编辑销售收入” | 工作台上下文显示“正在共创：销售收入”，右侧打开对应组件配置 | PASS |
+| 输入“整张报表切换为暮光紫主题” | Agent 展示处理步骤；报表主题状态变为暮光紫，预览仍为白色画布 | PASS |
+| 输入“把这个组件的展示名改为本月销售额” | 仅当前收入组件标题改变；数据模式仍为示例 | PASS |
+| 直接改展示属性 | 标题改为“月度营收”、类型改为柱状图、单位改为“千元”，状态写入当前组件 | PASS |
+| 直接改查询配置并执行 | 指标改为订单数、维度为日期、月份为 2026-09、部门为华东区；模拟查询返回 ready，参数与指标映射已更新 | PASS |
+| 主题切换时组件面板已打开 | 面板主题色同步到新主题强调色，未沿用过期色值 | PASS |
+| 页面错误及控制台 | 本轮交互后未观察到页面错误或控制台错误 | PASS |
+
+验证期间发现主题切换会使已打开面板的颜色输入短暂保留旧值，已改为切换主题后刷新当前组件面板，并重新验证通过。更新了工作台与日报截图。以上仅证明本地 HTML 原型的交互状态，不代表真实模型或查询服务。
